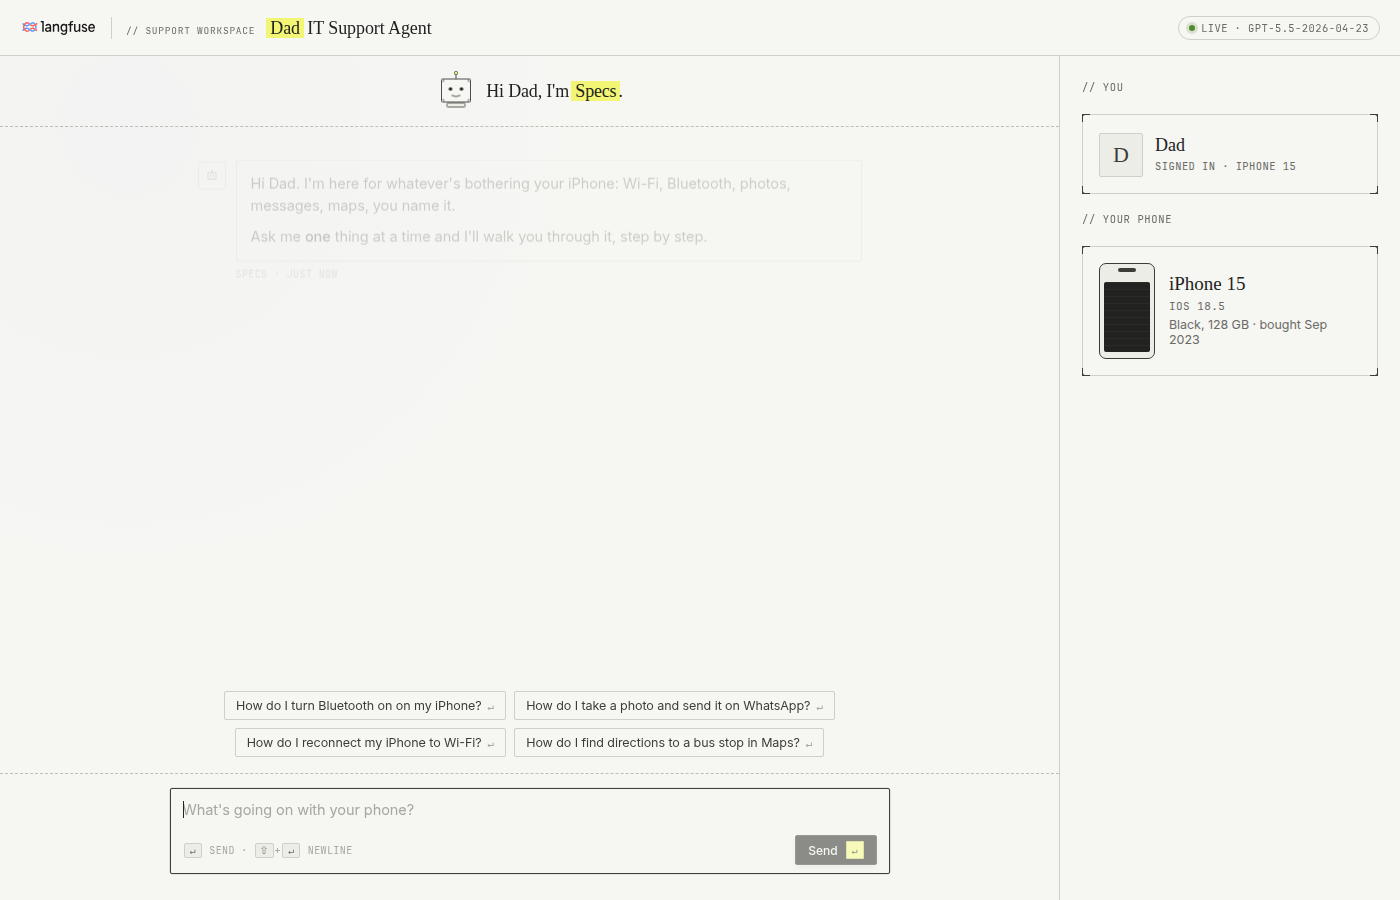
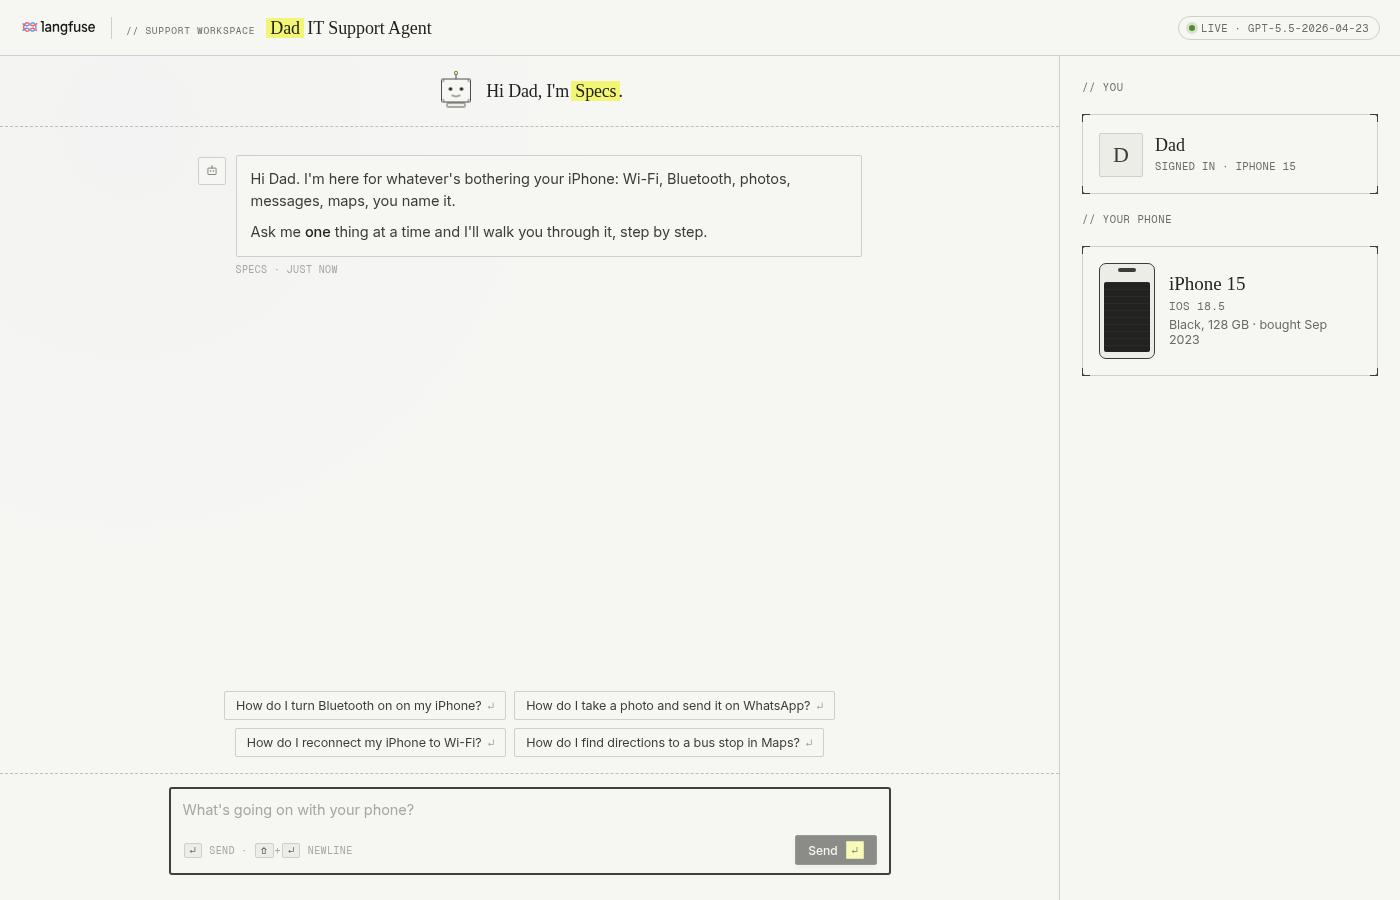
Fix issues found in the live learner walkthrough
Log the chat request as the agent root input, write annotation labels
exactly as the score config spells them, and treat empty environment
variables as unset. Add a --live smoke check and correct the docs and
app screenshots from the 2026-11-25 walkthrough.

diff --git a/scripts/run_workshop.py b/scripts/run_workshop.py
@@ -5,6 +5,12 @@ variables are absent. The process exits 0 when every local step passes
 and every skipped step was skipped only because a secret was missing.
 
     uv run python scripts/run_workshop.py
+    uv run python scripts/run_workshop.py --live
+
+`--live` also sends one real chat turn through the reference agent (a few
+OpenAI calls) and checks its trace in Langfuse: the agent root, the tool
+observations, the OpenAI generations, the camelCase root input the 4.2
+evaluators map, and the prompt link when the prompt is published.
 """
 
 from __future__ import annotations
@@ -19,6 +25,8 @@ from pathlib import Path
 ROOT = Path(__file__).resolve().parents[1]
 sys.path.insert(0, str(ROOT))
 sys.path.insert(0, str(ROOT / "scripts"))
+
+LIVE = "--live" in sys.argv[1:]
 
 REQUIRED_ENV = (
     "OPENAI_API_KEY",
@@ -43,9 +51,9 @@ class Report:
         print()
         print(f"{len(passed)} passed, {len(skipped)} skipped, {len(failed)} failed")
         if skipped:
-            print("Skipped because credentials were absent:")
-            for _step, _status, detail in skipped:
-                print(f"  - {detail}")
+            print("Skipped:")
+            for step, _status, detail in skipped:
+                print(f"  - {step}: {detail}")
         return 1 if failed else 0
 
 
@@ -191,10 +199,93 @@ def step_live(report: Report) -> None:
         if response.status != 200:
             raise RuntimeError(f"Langfuse projects API returned {response.status}")
     report.add("langfuse-auth", "PASS", "Langfuse accepted the project API keys")
+    if not LIVE:
+        report.add(
+            "live-chat-trace",
+            "SKIP",
+            "pass --live to send one chat turn and check its trace. Prompt publish, dataset seed, "
+            "and dataset runs stay with the chapter commands",
+        )
+        return
+    step_live_chat(report)
+
+
+def step_live_chat(report: Report) -> None:
+    """Send one chat turn through the reference agent and read its trace back."""
+    import time
+    import urllib.parse
+    import urllib.request
+    import base64
+    from uuid import uuid4
+
+    from langfuse import get_client
+
+    from app.env import env
+    from app.models import ChatMessage, ChatRequest
+    from app.support_agent import run_support_conversation
+
+    langfuse = get_client()
+    trace_id = langfuse.create_trace_id()
+    request = ChatRequest(
+        session_id=f"smoke-{uuid4()}",
+        user_id="workshop-smoke",
+        messages=[
+            ChatMessage(
+                id="smoke-1",
+                role="user",
+                content="How do I turn Bluetooth on?",
+                timestamp="2026-01-01T00:00:00Z",
+            )
+        ],
+    )
+    response = run_support_conversation(request, langfuse_trace_id=trace_id)
+    langfuse.flush()
+    if not response.answer.strip():
+        raise RuntimeError("the agent returned an empty answer")
+
+    token = base64.b64encode(f"{env.langfuse_public_key}:{env.langfuse_secret_key}".encode()).decode()
+    query = urllib.parse.urlencode(
+        {
+            "traceId": trace_id,
+            "fields": "core,basic,io,prompt",
+            "fromStartTime": "2020-01-01T00:00:00Z",
+            "limit": "100",
+        }
+    )
+    url = env.langfuse_base_url.rstrip("/") + "/api/public/v2/observations?" + query
+    rows: list[dict] = []
+    deadline = time.time() + 120
+    while time.time() < deadline:
+        req = urllib.request.Request(url, headers={"Authorization": f"Basic {token}"})
+        with urllib.request.urlopen(req, timeout=30) as resp:
+            rows = json.loads(resp.read().decode()).get("data") or []
+        names = {row.get("name") for row in rows}
+        if "dad-it-support-chat-turn" in names and any(r.get("type") == "GENERATION" for r in rows):
+            break
+        time.sleep(5)
+
+    root = next((r for r in rows if r.get("name") == "dad-it-support-chat-turn"), None)
+    if root is None or root.get("type") != "AGENT":
+        raise RuntimeError(f"no dad-it-support-chat-turn agent observation in trace {trace_id}")
+    tools = sorted({r["name"] for r in rows if r.get("type") == "TOOL"})
+    if "get_support_context" not in tools:
+        raise RuntimeError(f"tool observations missing, found {tools}")
+    generations = [r for r in rows if r.get("type") == "GENERATION"]
+    if not generations:
+        raise RuntimeError("no OpenAI generation in the trace")
+    root_input = root.get("input")
+    if isinstance(root_input, str):
+        root_input = json.loads(root_input)
+    if not isinstance(root_input, dict) or not isinstance(root_input.get("messages"), list):
+        raise RuntimeError(f"root input is not {{messages, sessionId, userId}}: {str(root_input)[:200]}")
+    if root_input.get("sessionId") != request.session_id:
+        raise RuntimeError("root input does not carry the camelCase sessionId")
+    linked = sorted({f"{r.get('promptName')} v{r.get('promptVersion')}" for r in generations if r.get("promptName")})
+    prompt_note = f", prompt {', '.join(linked)}" if linked else ", no prompt link (prompt not published)"
     report.add(
-        "openai-and-experiments",
-        "SKIP",
-        "OPENAI_API_KEY is set; chat, prompt publish, dataset seed, and dataset run are left to the chapter commands so the smoke test does not spend model calls",
+        "live-chat-trace",
+        "PASS",
+        f"trace {trace_id}: agent root, tools {', '.join(tools)}, {len(generations)} generations{prompt_note}",
     )
 
 

diff --git a/scripts/seed_error_analysis_annotations.py b/scripts/seed_error_analysis_annotations.py
@@ -160,6 +160,20 @@ def _queue_configs(configs: list[dict]) -> tuple[dict, dict]:
     return open_coding, pass_fail
 
 
+def _category_label(config: dict, value: str) -> str:
+    """Return the config's own spelling of a category label.
+
+    New Langfuse projects ship a default `pass or fail` config labelled `Pass` and
+    `Fail`. Langfuse drops categorical scores whose value does not match a label
+    exactly, so the script writes the label as the config spells it.
+    """
+    for category in config.get("categories") or []:
+        label = category.get("label", "")
+        if label.lower() == value.lower():
+            return label
+    return value
+
+
 def annotate(queue_name: str, dry_run: bool) -> None:
     api = LangfuseApi()
     templates = {annotation_for(scenario)["key"]: annotation_for(scenario) for scenario in SCENARIOS}
@@ -221,7 +235,7 @@ def annotate(queue_name: str, dry_run: bool) -> None:
         }
         for config, value, data_type in (
             (open_coding, annotation["note"], "TEXT"),
-            (pass_fail, annotation["pass_fail"], "CATEGORICAL"),
+            (pass_fail, _category_label(pass_fail, annotation["pass_fail"]), "CATEGORICAL"),
         ):
             api.request(
                 "POST",

diff --git a/checkpoints/03-prompt-management/support_agent.py b/checkpoints/03-prompt-management/support_agent.py
@@ -9,7 +9,7 @@ from __future__ import annotations
 import json
 from typing import Any
 
-from langfuse import observe, propagate_attributes
+from langfuse import get_client, observe, propagate_attributes
 from langfuse.openai import OpenAI
 
 from app.env import env
@@ -47,6 +47,11 @@ def _parse_tool_arguments(arguments_text: str) -> dict[str, Any] | None:
 
 @observe(name="dad-it-support-chat-turn", as_type="agent")
 def run_support_conversation(request: ChatRequest) -> ChatResponse:
+    # Log the request body (messages, sessionId, userId) as the root input, the
+    # same shape the TypeScript app logs. The 4.2 evaluators map Input -> messages.
+    get_client().update_current_span(
+        input=request.model_dump(mode="json", by_alias=True, exclude_none=True)
+    )
     context = get_support_context()
     user_id = request.user_id or f"workshop-{context['id']}"
 

diff --git a/app/support_agent.py b/app/support_agent.py
@@ -70,6 +70,11 @@ def _parse_tool_arguments(arguments_text: str) -> dict[str, Any] | None:
 
 @observe(name="dad-it-support-chat-turn", as_type="agent")
 def run_support_conversation(request: ChatRequest) -> ChatResponse:
+    # Log the request body (messages, sessionId, userId) as the root input, the
+    # same shape the TypeScript app logs. The 4.2 evaluators map Input -> messages.
+    langfuse_client().update_current_span(
+        input=request.model_dump(mode="json", by_alias=True, exclude_none=True)
+    )
     context = get_support_context()
     langfuse_prompt = get_prompt()
     system_prompt = langfuse_prompt.prompt if langfuse_prompt is not None else SYSTEM_PROMPT

diff --git a/checkpoints/reference/support_agent.py b/checkpoints/reference/support_agent.py
@@ -70,6 +70,11 @@ def _parse_tool_arguments(arguments_text: str) -> dict[str, Any] | None:
 
 @observe(name="dad-it-support-chat-turn", as_type="agent")
 def run_support_conversation(request: ChatRequest) -> ChatResponse:
+    # Log the request body (messages, sessionId, userId) as the root input, the
+    # same shape the TypeScript app logs. The 4.2 evaluators map Input -> messages.
+    langfuse_client().update_current_span(
+        input=request.model_dump(mode="json", by_alias=True, exclude_none=True)
+    )
     context = get_support_context()
     langfuse_prompt = get_prompt()
     system_prompt = langfuse_prompt.prompt if langfuse_prompt is not None else SYSTEM_PROMPT

diff --git a/app/env.py b/app/env.py
@@ -17,7 +17,9 @@ load_dotenv(ROOT / ".env", override=True)
 
 
 def _get(name: str, default: str = "") -> str:
-    return os.environ.get(name, default)
+    # An empty value counts as unset. GitHub Actions passes unset secrets as
+    # empty strings, which would otherwise blank out the prompt and dataset names.
+    return os.environ.get(name) or default
 
 
 class Env:

diff --git a/docs/learner/02-tracing.md b/docs/learner/02-tracing.md
@@ -84,29 +84,32 @@ from langfuse.openai import OpenAI
 
 `from langfuse.openai import OpenAI` is the Python equivalent of `observeOpenAI(new OpenAI(...))`. The call site stays `OpenAI(api_key=env.openai_api_key)`. Every `chat.completions.create(...)` now emits a generation.
 
-Restart the server (`uv run python -m app.server`), ask one question, and refresh Langfuse. You should see one generation per OpenAI call with prompt, response, tokens, and latency. Each generation is still its own top-level trace.
+Restart the server (`uv run python -m app.server`), ask one question, and refresh Langfuse. You should see one generation per OpenAI call with prompt, response, tokens, and latency. Each generation is still its own top-level trace. The Python SDK names these generations `OpenAI-generation`. The screenshot comes from the TypeScript workshop, where the same rows are named `openai-chat-completion`.
 
-![Langfuse Traces view after Step 1: each chat turn appears as standalone openai-chat-completion generations.](../images/tracing/02-tracing-step-1.png)
+![Langfuse Traces view after Step 1: each chat turn appears as standalone OpenAI generations.](../images/tracing/02-tracing-step-1.png)
 
 ## Step 2: Nested traces
 
 Group those generations under one agent run. In Python the wrapper is a decorator, which is the same idea as `observe(fn, { asType: "agent" })` in the TypeScript SDK.
 
 ```python
-from langfuse import observe
+from langfuse import get_client, observe
 ```
 
-Put the decorator on `run_support_conversation`. The body stays as it is. Create the OpenAI client **inside** the function so the generations attach to this observation:
+Put the decorator on `run_support_conversation`. Create the OpenAI client **inside** the function so the generations attach to this observation. Add one line at the top that logs the request body as the observation input:
 
 ```python
 @observe(name="dad-it-support-chat-turn", as_type="agent")
 def run_support_conversation(request: ChatRequest) -> ChatResponse:
+    get_client().update_current_span(
+        input=request.model_dump(mode="json", by_alias=True, exclude_none=True)
+    )
     context = get_support_context()
     client = OpenAI(api_key=env.openai_api_key)
     ...
 ```
 
-`@observe` records the function argument as the trace input and the return value as the trace output.
+`@observe` records the return value as the trace output. On its own it would record the input as `{"args": [...], "kwargs": {}}` with snake_case fields. The `update_current_span` line replaces that with the same `{ sessionId, userId, messages }` body the TypeScript app logs, which is what the evaluators in [4.2 Capturing signals](./04-monitoring/capturing-signals.md) map with **Input → messages**.
 
 Restart, ask one question. One chat turn should now be a single `dad-it-support-chat-turn` observation with the OpenAI generation nested underneath.
 
@@ -143,7 +146,7 @@ def search_help_library_tool(question: str) -> dict:
 - Root observation: `dad-it-support-chat-turn` (type `agent`).
 - Child generation from `langfuse.openai.OpenAI` with prompt, response, tokens, and latency.
 - Child tool observations: `get_support_context`, `search_help_library`.
-- Root input is the chat request. Root output is the chat response.
+- Root input is the chat request body: `sessionId`, `userId`, and `messages`. Root output is the chat response.
 
 ## Wrap-up
 

diff --git a/SYNC.md b/SYNC.md
@@ -16,7 +16,7 @@ This repository is the Python port of [langfuse/langfuse-workshop](https://githu
 2. Diff that tree against the SHA in `.sync/upstream.json` (`git diff <old> <new>` in the upstream clone).
 3. For each changed learner lesson, script, or `src/` file, update the Python module in the mapping below. Keep the learning sequence. Use the current Langfuse Python SDK (`@observe`, `langfuse.openai.OpenAI`, `get_client()`, `propagate_attributes`, `dataset.run_experiment`) instead of translating TypeScript line by line.
 4. Update checkpoint snapshots when a milestone file changed, then run `uv run python scripts/use_checkpoint.py --check`.
-5. Run `uv run python scripts/run_workshop.py`. It must pass with no secrets. If secrets are available, also run the chapter scripts that those secrets unlock.
+5. Run `uv run python scripts/run_workshop.py`. It must pass with no secrets. If secrets are available, also run it with `--live` and run the chapter scripts that those secrets unlock.
 6. Refresh screenshots with `uv run python scripts/refresh_screenshots.py` when a Langfuse UI session is available. Otherwise leave the reused images and say so in [docs/images/README.md](docs/images/README.md).
 7. Write the new SHA, date, and any mapping changes into this file and `.sync/upstream.json`. Open one pull request against `main`.
 
@@ -89,6 +89,12 @@ Upstream teaches user and session IDs as an appendix and does not mention `LANGF
 - The optional row in the root README environment table
 
 The variable stays unset in the workshop defaults. Traces still use Langfuse's default environment, and chapter 4.2 still tells learners to filter the sample observation to `production` when that panel shows another environment. When porting a new upstream `02-tracing.md`, keep this appendix.
+
+### Root input shape
+
+The Python SDK's `@observe` records a function's input as `{"args": [...], "kwargs": {}}`, and the pydantic request dumps in snake_case. The TypeScript `observe(...)` records the single argument, so upstream's root input is the `{ sessionId, userId, messages }` request body. The 4.2 evaluator mappings (**Input → messages**) and the error-analysis seed depend on that shape.
+
+This port adds one `update_current_span(input=request.model_dump(mode="json", by_alias=True, exclude_none=True))` line at the top of `run_support_conversation` in `app/support_agent.py`, `checkpoints/reference/`, and `checkpoints/03-prompt-management/`, and teaches it in Step 2 of [docs/learner/02-tracing.md](docs/learner/02-tracing.md). `scripts/run_workshop.py --live` fails if the root input loses that shape. Keep the line when porting a new upstream `support-agent.ts` or `02-tracing.md`.
 
 ### Feedback from that PR that stays dropped
 

diff --git a/docs/images/README.md b/docs/images/README.md
@@ -6,10 +6,10 @@ https://github.com/langfuse/langfuse-workshop
 
 They were copied at upstream commit `28996a20d39a82e511a8fd043fb26252495453e3` (2026-11-23). The UI views are not specific to TypeScript. This Python port uses the same trace name (`dad-it-support-chat-turn`), tool names (`get_support_context`, `search_help_library`), prompt name (`dad-it-support-agent`), and dataset name (`dad-it-support-workshop`), so the captured screens match the Python flow.
 
-`sample_app.png` and `specs_illustration.png` show the upstream client. `python-ui.png` is a headless Chrome capture of this repo's page at `http://127.0.0.1:3333` during the 2026-11-24 sync (Specs greeting, suggestion chips, iPhone panel). Sending a chip was not captured: that calls OpenAI and no API key was available.
+`sample_app.png` and `specs_illustration.png` show the upstream client. `python-ui.png` (Specs greeting, suggestion chips, iPhone panel) and `python-ui-answer.png` (the Bluetooth chip answered by the model) are headless Chrome captures of this repo's page at `http://127.0.0.1:3333`, taken during the 2026-11-25 live walkthrough with real OpenAI and Langfuse keys.
 
-## Not refreshed in this sync
+## Langfuse UI screenshots not refreshed
 
-No Langfuse project URL or browser session was available, so none of the Cloud UI screenshots were regenerated. `scripts/refresh_screenshots.py` is the refresh path. It exits successfully and leaves these files in place when `LANGFUSE_PROJECT_URL` and a Playwright storage state (or email and password) are missing.
+The 2026-11-25 walkthrough verified every chapter against a live Langfuse project through the public API, but had no logged-in Langfuse browser session, so none of the Cloud UI screenshots were regenerated. In `tracing/02-tracing-step-1.png` the generations are named `openai-chat-completion` (TypeScript SDK). The Python SDK names them `OpenAI-generation`, and the lesson says so. `scripts/refresh_screenshots.py` is the refresh path. It exits successfully and leaves these files in place when `LANGFUSE_PROJECT_URL` and a Playwright storage state (or email and password) are missing.
 
 Diagrams that are not UI captures (`AI-engineering-loop.png`, `specs_illustration.png`, `tracing/process_illustration.png`, `monitoring/error-analysis-process.png`) do not need a Langfuse session.

diff --git a/docs/learner/00-setup.md b/docs/learner/00-setup.md
@@ -38,7 +38,7 @@ The Langfuse keys are configured now, but traces start only after you add instru
 ## Step 1: Get the API keys
 
 1. **OpenAI**: [platform.openai.com](https://platform.openai.com) → API Keys → create one. Copy the `sk-...` value.
-2. **Langfuse**: sign up at [langfuse.com](https://langfuse.com) on the **EU region**, create a project, and copy the public and secret keys from **Settings → API Keys**.
+2. **Langfuse**: sign up at [langfuse.com](https://langfuse.com) on the **EU region**, create a project, and copy the public and secret keys from **Settings → API Keys**. If your organization is on another region, use that region's host in `LANGFUSE_BASE_URL`, for example `https://us.cloud.langfuse.com` for US.
 3. **AI Features**: confirm Halo is visible in the project. If it is missing, an owner or admin enables **Organization Settings → General → AI Features**.
 
 ## Step 2: Install the Langfuse skill and CLI
@@ -67,7 +67,7 @@ LANGFUSE_SECRET_KEY=sk-lf-...
 LANGFUSE_BASE_URL=https://cloud.langfuse.com
 ```
 
-Leave the rest of the defaults as they are. `app/env.py` loads this file with override turned on, so a `LANGFUSE_*`, `OPENAI_*`, or `DATASET_NAME` value exported in your shell from another project does not win. Edit `.env` to change the workshop configuration.
+`LANGFUSE_BASE_URL` is the EU host. Change it to your region's host if your project is elsewhere, for example `https://us.cloud.langfuse.com`. Leave the rest of the defaults as they are. `app/env.py` loads this file with override turned on, so a `LANGFUSE_*`, `OPENAI_*`, or `DATASET_NAME` value exported in your shell from another project does not win. Edit `.env` to change the workshop configuration.
 
 Keep real keys in `.env` only.
 
@@ -100,6 +100,8 @@ You should see the **Dad IT Support Agent** chat:
 - `uv run python -m app.server` is running and the UI loads at `http://127.0.0.1:3333`.
 - The browser shows the Specs greeting.
 - Sending one suggestion chip returns a real iPhone answer from the model. `GET /api/health` returns `"provider": "openai"`.
+
+![The Python app after sending the Bluetooth suggestion chip: Specs answers with numbered steps for Dad's iPhone 15.](../images/python-ui-answer.png)
 
 ## End state
 

diff --git a/README.md b/README.md
@@ -88,7 +88,7 @@ Open [http://127.0.0.1:3333](http://127.0.0.1:3333). The page and the API are th
 | `OPENAI_MODEL` | Chat, correctness judge | Defaults to `gpt-5.5-2026-04-23` |
 | `LANGFUSE_PUBLIC_KEY` | Tracing and every Langfuse script | Project public key |
 | `LANGFUSE_SECRET_KEY` | Tracing and every Langfuse script | Project secret key |
-| `LANGFUSE_BASE_URL` | Langfuse Cloud EU | `https://cloud.langfuse.com` |
+| `LANGFUSE_BASE_URL` | Langfuse region | `https://cloud.langfuse.com` (EU). Use `https://us.cloud.langfuse.com` for US |
 | `LANGFUSE_PROMPT_NAME` | Prompt fetch and publish | Defaults to `dad-it-support-agent` |
 | `LANGFUSE_PROMPT_LABEL` | Prompt fetch and publish | Defaults to `production` |
 | `DATASET_NAME` | Dataset seed and experiments | Defaults to `dad-it-support-workshop` |
@@ -102,7 +102,7 @@ Open [http://127.0.0.1:3333](http://127.0.0.1:3333). The page and the API are th
 
 ## Smoke test
 
-`uv run python scripts/run_workshop.py` (or `make smoke`) compiles the app, checks checkpoint snapshots, runs the local tool and dataset checks, boots the HTTP routes, and validates the error-analysis scenarios. Steps that call Langfuse or OpenAI are skipped when the keys above are missing, and the command still exits 0. A weekly GitHub Actions run does the same. See [CONTRIBUTING.md](CONTRIBUTING.md).
+`uv run python scripts/run_workshop.py` (or `make smoke`) compiles the app, checks checkpoint snapshots, runs the local tool and dataset checks, boots the HTTP routes, and validates the error-analysis scenarios. Steps that call Langfuse or OpenAI are skipped when the keys above are missing, and the command still exits 0. Add `--live` to also send one chat turn through the agent and check its trace shape in Langfuse (a few OpenAI calls). Pull requests run the plain command. The weekly GitHub Actions run adds `--live` when the repository secrets are set. See [CONTRIBUTING.md](CONTRIBUTING.md).
 
 ## Where to go next
 

diff --git a/docs/instructor/02-tracing.md b/docs/instructor/02-tracing.md
@@ -12,13 +12,14 @@ Learner guide: [02 Tracing](../learner/02-tracing.md)
 - Teach three layers: OpenAI generations, one agent root, then tool observations.
 - Python equivalents of the TypeScript wrappers: `from langfuse.openai import OpenAI` instead of `observeOpenAI`, `@observe(name=..., as_type="agent"|"tool")` instead of `observe(fn, { asType })`, and `get_client()` plus `flush()` / `shutdown()` instead of `NodeSDK` and `LangfuseSpanProcessor`.
 - Create the OpenAI client inside the decorated function so generations nest under the agent.
+- Do not skip the `update_current_span(input=request.model_dump(mode="json", by_alias=True, exclude_none=True))` line in Step 2. Without it the Python root input is `{"args": [...], "kwargs": {}}` in snake_case, and the 4.2 evaluator mapping **Input → messages** finds nothing.
 - User and session propagation is optional live. The `03-prompt-management` snapshot already includes `propagate_attributes`.
 - Tracing environment is an appendix, not a fourth live step. Leave `LANGFUSE_TRACING_ENVIRONMENT` unset unless a learner wants laptop traces separated from a deployed app. If they set it, the Traces filter and the 4.2 sample-observation filter have to use that same value.
 
 ## Demo rhythm
 
 1. Switch the OpenAI import and boot `get_client()` in `app/server.py`. One turn, separate generation traces.
-2. Add `@observe` on `run_support_conversation`. One turn, nested generations.
+2. Add `@observe` on `run_support_conversation` and the root-input line. One turn, nested generations, and the request body as the root input.
 3. Decorate the two tool helpers. One turn, full tree.
 
 Restart the server between steps. This app does not watch files.
